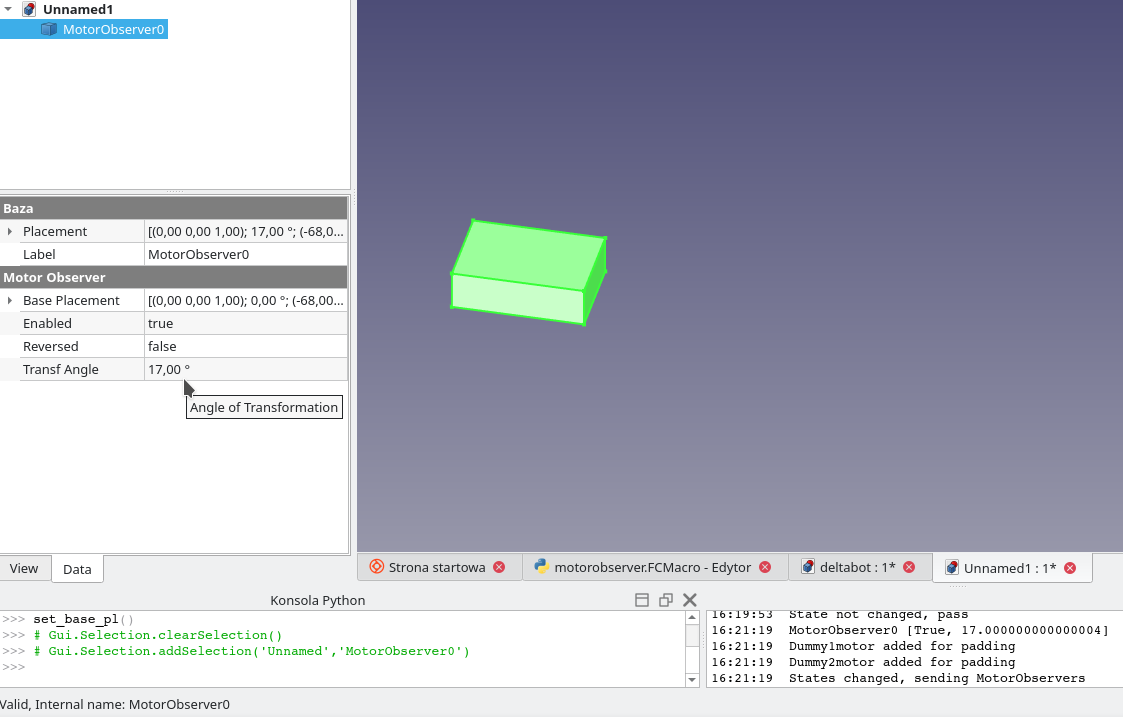
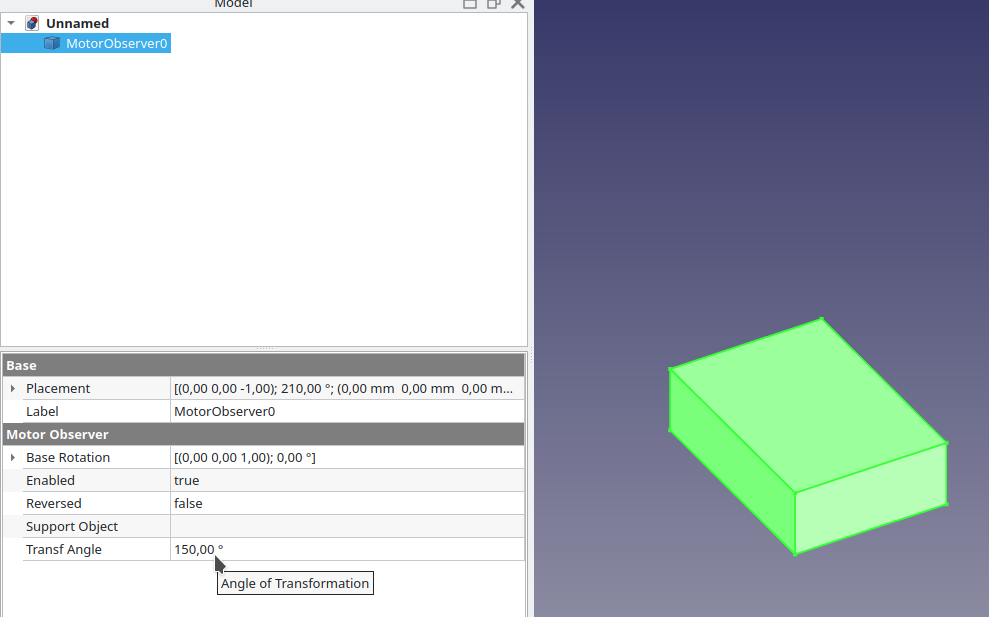
docs improv

diff --git a/README_EN.md b/README_EN.md
@@ -41,15 +41,15 @@ The content of the repository is divided into 3 parts, located in the following 
 
 `make`
 
-* Download [Ondsel ES](https://github.com/Ondsel-Development/FreeCAD/releases) (FreeCAD version with unified assembly workbench implemented) and execute it.
-After starting, paste the contents of the `motor-observer.py` script into the Python console and **then** open the `deltarobot-example.FCStd` example.
+* Download [FreeCAD weekly build](https://github.com/FreeCAD/FreeCAD-Bundle/releases/tag/weekly-builds) or [Ondsel ES](https://github.com/Ondsel-Development/FreeCAD/releases) and execute it.
+After starting, paste the contents of the `motor-observer.py` script into the Python console and **then** open the `deltarobot-example.FCStd` or `3axis_robot.FCStd` example.
 Note: if you are running FreeCAD on a remote computer, adjust the line `default_remote = '192.168.1.23'` in the `motor-observer.py` script by entering the IP address of the Raspberry Pi there. You can also change the address after the script starts by typing `adr='192.168.XXX.XXX` in the interpreter.
 
 * Run the motor driver application on the Raspberry Pi (requires superuser rights due to GPIO access):
 
 `sudo ./udp-receiver`
 
-* Move the assembly with the mouse, after activating it by double-clicking on the `deltabot` assembly in the feature tree. In the Ondsel/FreeCAD report view, you should see something similar to:
+* Move the assembly with the mouse, after activating it by double-clicking on the `deltabot` / `3axis_robot` assembly in the feature tree. In the Ondsel/FreeCAD report view, you should see something similar to:
 
 ```
 15:53:03  MotorObserver0 [True, 8.391769606205315]
@@ -118,6 +118,14 @@ After rotating the object, you should see the _Transf Angle_ attribute change an
 ![Single Observer][so]
 
 [so]: https://raw.githubusercontent.com/kwahoo2/freecad-motor-driver/main/.github/images/single_observer.png "Observer"
+
+
+If the MotorObserver is moving in the 3D space, it needs a support object specified. Eg.: if MotorObserver is fixed to a motor pulley, the motor housing can used as the support object. An user can set the support in the data tab inside the FreeCAD window.The script uses the support object and MotorObserver object rotations to calculate the relative angle between them.
+
+
+![Support Object][sp]
+
+[sp]: https://raw.githubusercontent.com/kwahoo2/freecad-motor-driver/main/.github/images/support.png "Support object"
 
 ## Saving the script as a macro
 
